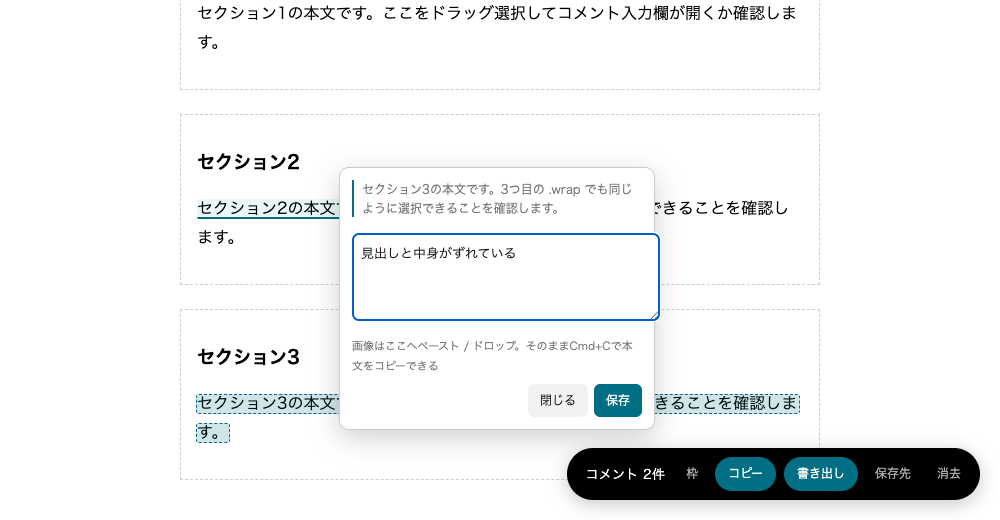
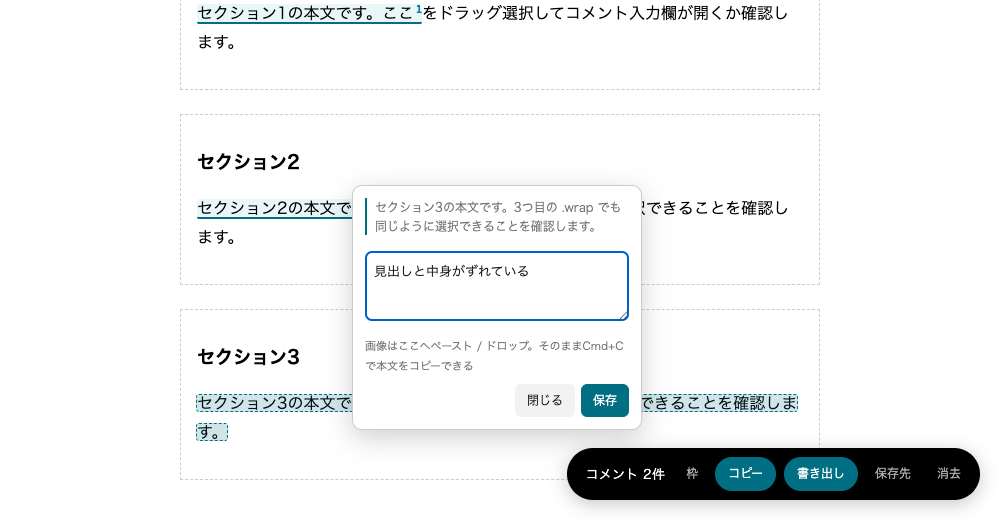
fix: ポップアップの入力欄が枠からはみ出すのを直す
レイヤーが box-sizing を指定しておらず、対象ページの設定をそのまま受けていた。
border-box を敷いていないページでは、width:100% の入力欄が padding 8px×2 と
border 1px×2 のぶん実幅308pxになり、使える幅290pxを18px超えていた。

rvの要素だけに閉じて border-box を指定する。対象ページ側の box-sizing は変えない
（fixture 5本で、対象ページの p が content-box のままであることを確認）。

実測: 修正前=ポップアップのはみ出し6px・入力欄308px / 修正後=はみ出し0px・入力欄264px。
fixture 5本でバー・未照合の箱ともはみ出し0、JSエラーなし、コメントの保存と復元も無傷。
手動チェックリストに「対象ページとの干渉」の節を追加した。

diff --git a/rv-layer.js b/rv-layer.js
@@ -81,6 +81,12 @@ var imageDirName = null;  // 選ばれている画像の保存先フォルダ名
 
 // ---------- CSS 自己注入 ----------
 var CSS = ""
+// レイヤーは自分で box-sizing を決める。指定しないと対象ページの設定をそのまま受け、
+// border-box を敷いていないページでは width:100% の入力欄が padding と border のぶん
+// はみ出す（実測18px）。対象ページ側へは影響させないよう、rvの要素だけに閉じる。
++"#rvbar,#rvbar *,#rvpop,#rvpop *,#rvdonepanel,#rvdonepanel *,#rvorphan,#rvorphan *,"
++"#rvtoast,#rvmarks,#rvmarks *,#rvsel,#rvsel *,#rvhover,#rvhover *,#rvcrop,#rvcrop *"
++"{box-sizing:border-box}"
 +"mark.rv{background:var(--rv-mark,#e9f7f9);border-bottom:2px solid var(--rv-accent,var(--accent,#006f83));"
 +"padding:1px 0;cursor:pointer;border-radius:2px}"
 +"mark.rv:hover{background:var(--rv-mark-hover,#c8f8ff)}"

diff --git a/CHANGELOG.md b/CHANGELOG.md
@@ -17,6 +17,10 @@
   文字4.5:1・UI部品の境界3:1（WCAG 2.2 AA）を全項目で満たす。
   以前の配色は主ボタンの白文字が3.28で基準を割っていた。色はすべて `--rv-*` の
   CSSカスタムプロパティで上書きできる
+- **ポップアップの入力欄が枠からはみ出していたのを直した**。レイヤーが `box-sizing` を
+  指定しておらず、対象ページの設定をそのまま受けていた。`border-box` を敷いていない
+  ページでは `width:100%` の入力欄が padding と border のぶん18px はみ出す。
+  rvの要素だけに閉じて `border-box` を指定した（対象ページ側の指定は変えない）
 - README に「使う前に知っておくこと」を追加。対象ページのスクリプトから
   コメントと画像が読める・書き換えられること、`window.__rvResolved` を
   ページ側から設定できることを、設計上の前提として明記した

diff --git a/tests/manual-checklist.md b/tests/manual-checklist.md
@@ -40,6 +40,13 @@ python3 -m http.server 8000
 - [ ] ドラッグを離すとコメント入力欄が開く
 - [ ] 保存後、リロードしても同じ位置に枠が復元される
 
+## 対象ページとの干渉
+
+- [ ] `* { box-sizing: border-box }` を**敷いていない**ページで、コメント入力欄が
+      ポップアップの枠からはみ出さない
+- [ ] レイヤーを載せても、対象ページ側の要素の `box-sizing` が変わらない
+- [ ] バー・未照合の箱・済みパネルが、横にはみ出さない
+
 ## 保存の守り
 
 - [ ] 同じページを2つのタブで開き、それぞれで別のコメントを保存する。
